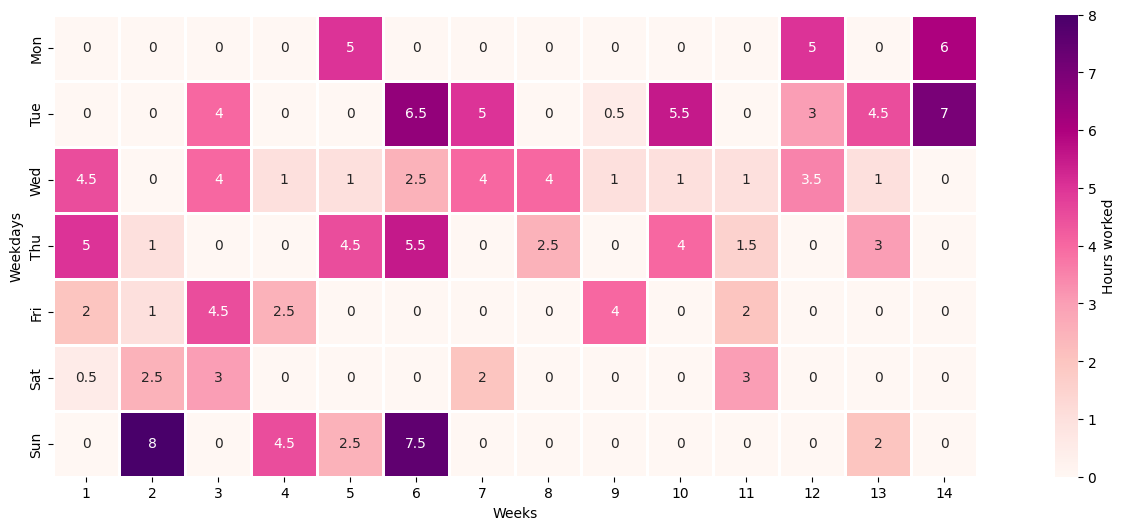
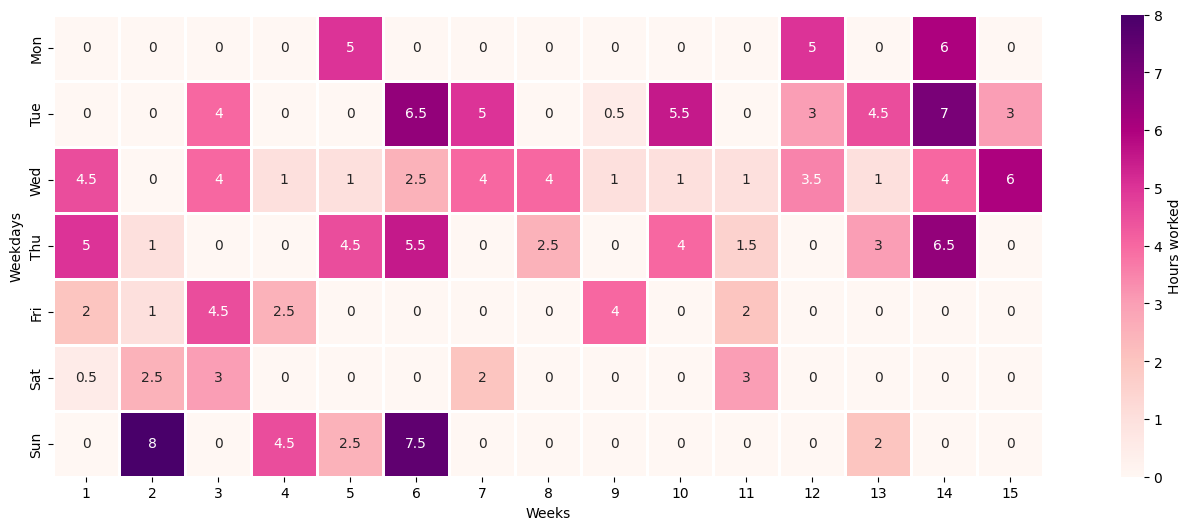
Update timelog 29/12/2021

diff --git a/timelog.md b/timelog.md
@@ -297,3 +297,26 @@
 
 * *4 hours* Wrote the transport layer background section for the dissertation.
 * *3 hours* Wrote up the IoT background section for the dissertation.
+
+### 22 Dec 2021
+
+* *4 hours* Wrote up the rust background section for the dissertation.
+
+### 23 Dec 2021
+
+* *4 hours* Restructured parts of the presentation and skimmed through a few of the hall of fames ones to get an idea of how a more research based project can be structured. 
+* *2.5 hours* Started writing the network simulation part of the dissertation (describing how the analysis was done using mininet)
+
+## Week 15
+
+### 28 Dec 2021
+
+* *1 hours* Finished the network simulation section for the dissertation.
+* *2 hours* Rethought the way that connection establishment works for quic socket. Stream should be opened in new method.
+
+### 29 Dec 2021
+
+* *1 hours* Re-wrote parts of quic-socket to establish connection and open bidirectional stream in new method. Altered examples to test this.
+* *1 hours* Finished new quic-socket implementation and tested it using the quic socket examples. The client and server can now send and receive arbitrary payloads on new streams and there seems to be no hanging and packets arrive fine.
+* *3 hours* Debugging invalid packets in mqtt and trying to get it to work. Currently I manage to get the initial connection ACK only, so packets get corrupted somewhere after that.
+* *1 hours* Found bug - was reading more bytes than necessary from buffer. MQTT seems to work now with QUIC but using threads makes some messages lost (around 9 out of 100).
